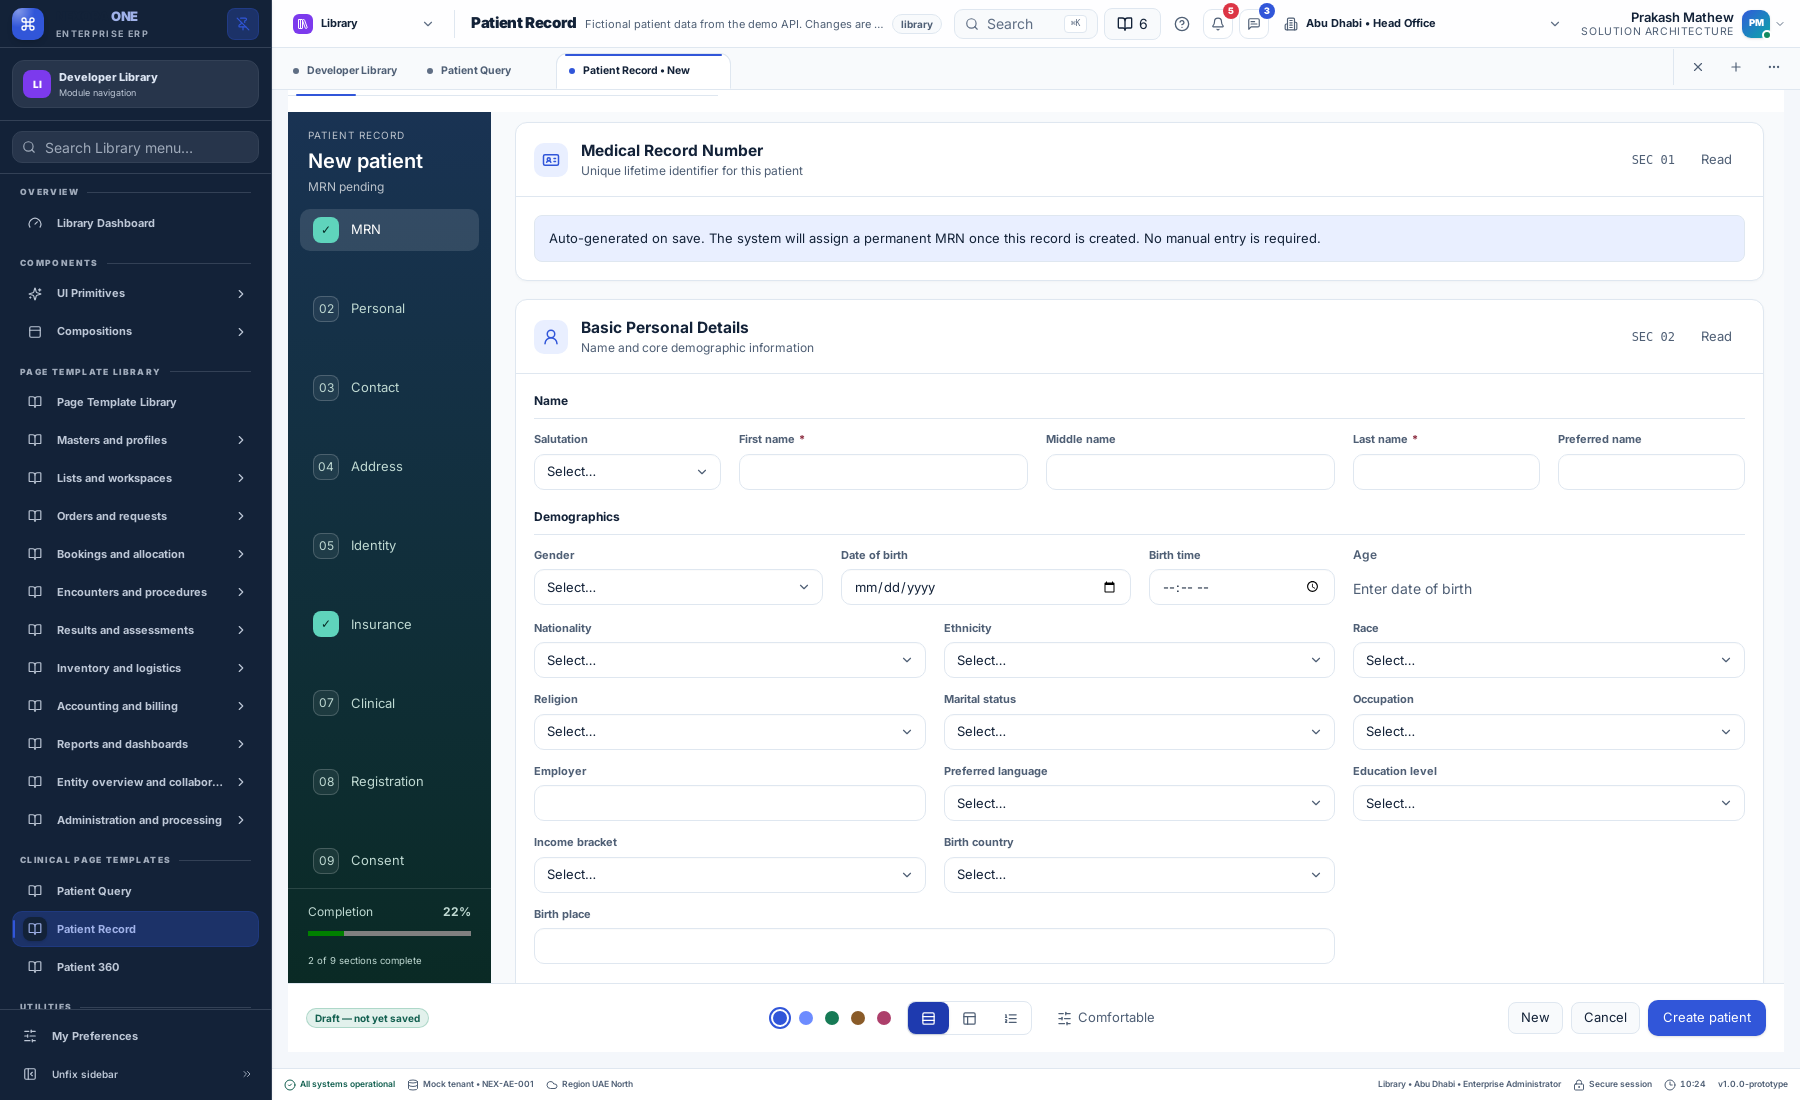
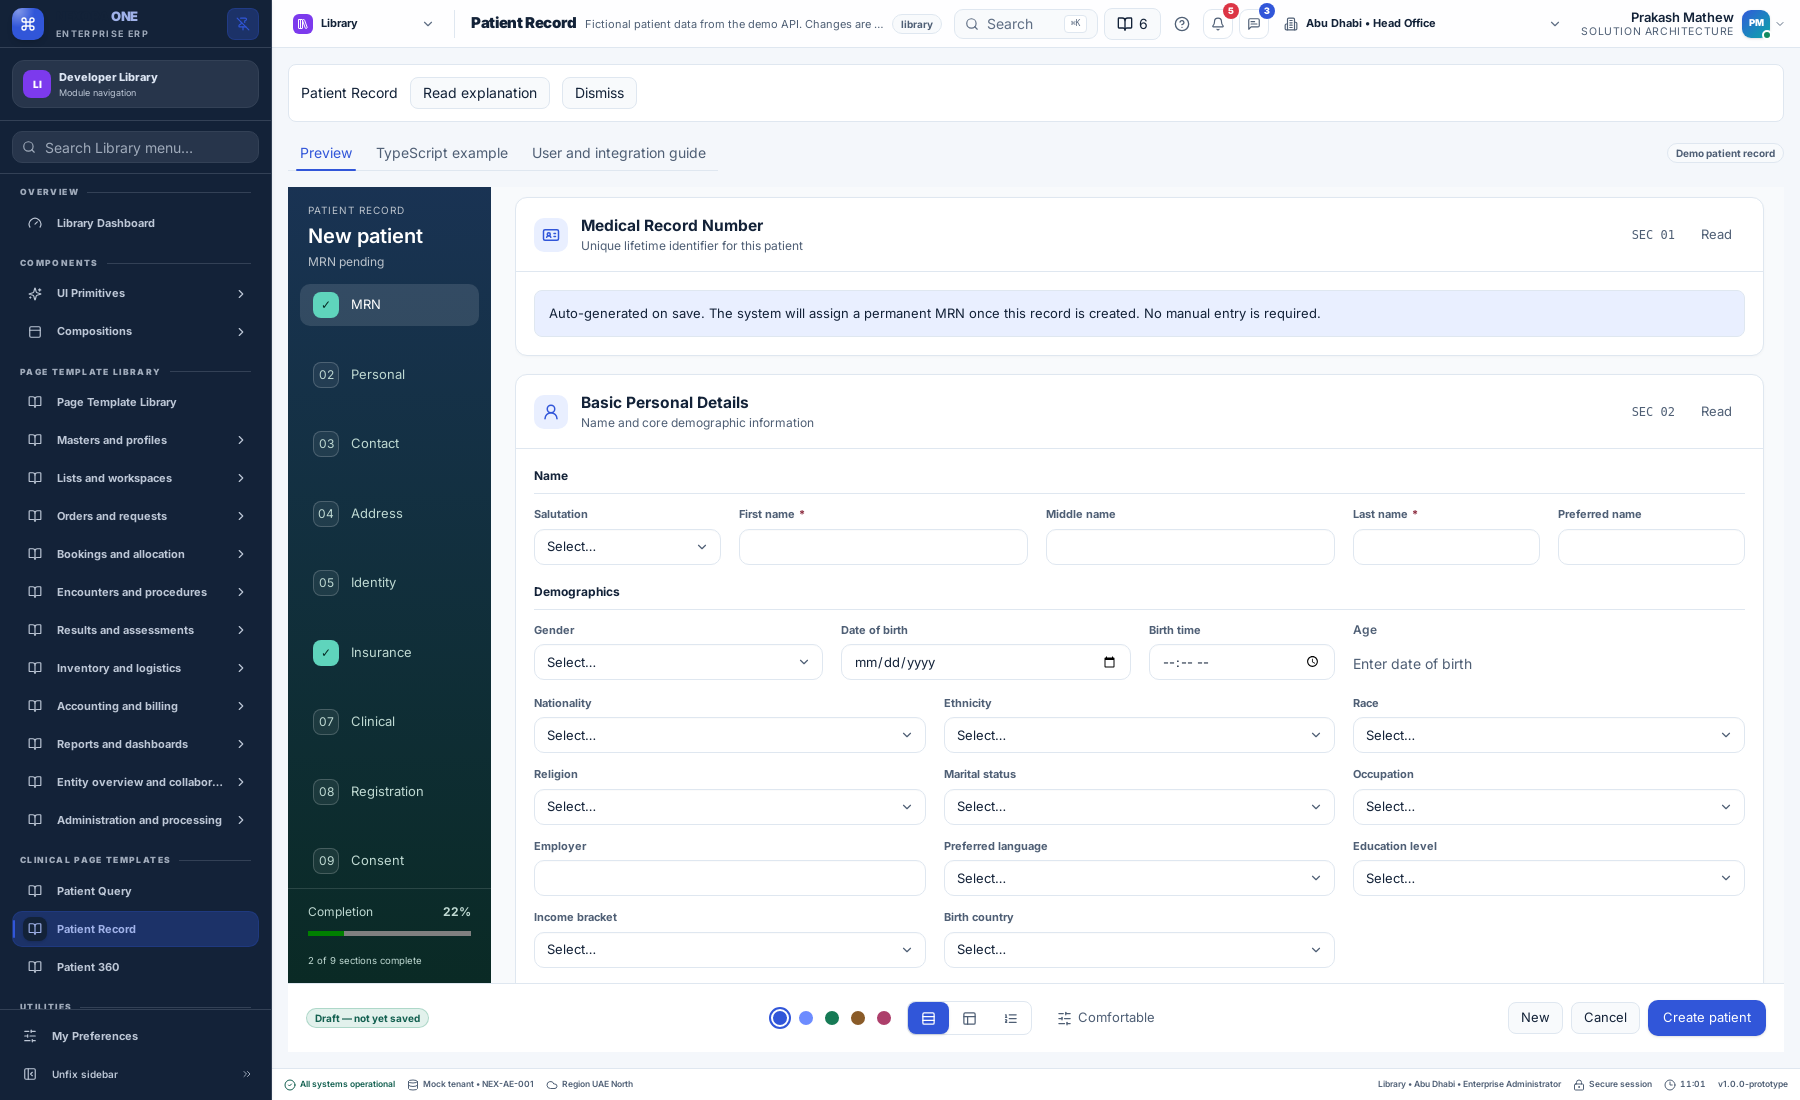
Document patient record deployment and live parity checks [skip ci]

diff --git a/desktop-clients/docs/patient-record-parity.md b/desktop-clients/docs/patient-record-parity.md
@@ -21,7 +21,7 @@ templates → Patient Record** on the desktop shell.
 | Contact sections | Separate email and telephone collections, compound country-code/phone controls and communication preferences |
 | Conditional details | Insurance policies, disability details, deceased fields, refusal and revocation details follow their controlling values |
 | MRN and registration | New records show automatic-generation guidance; saved identifiers and registration status display read-only |
-| Persistent footer | New/Cancel, mode-specific care actions, save, theme, layout and density controls remain accessible while the form scrolls |
+| Persistent footer | New/Cancel, mode-specific care actions, save, theme, layout and density controls remain accessible while the form scrolls, including when page notices appear above it |
 | Repeated details | Numbered row cards, primary toggles, conditional fields and gated Add buttons |
 | Document staging | Shared FilePicker stages file name, MIME type and byte count; the demo API saves metadata, as the reference source does |
 | Save/review | Review before saving, required fields and server errors, retained edits, retry identity and version conflict handling |
@@ -94,5 +94,25 @@ retry, care overview, booking, export and four-language/RTL behavior.
 Local full CI passed: 1,469 tests across 98 files, 61 existing API tests, seven
 clinical API tests, both builds and all project checks. The final browser run also
 passed after the footer/wizard refinements, including record accessibility, keyboard
-navigation and translated record fields. Remote CI and live evidence will be added
-after release validation.
+navigation and translated record fields. The final contact refinement also passed nine targeted tests, clinical API tests,
+package typechecks, production builds, project checks and the clinical browser suite.
+
+
+## Released and verified
+
+- Runtime commit: `2b3095f9bd4eba9709927bf6bf24185717a93276`.
+- [Final CI run](https://github.com/IAMPrakashJM/enterprise-fronend/actions/runs/34342533619):
+  all six jobs passed, including 1,470 tests in 98 files, API checks, browser workflows,
+  product integration, navigation and native Linux lifecycle/localization.
+- Release: `20260909105221034-acc45bbc`, activated on both public demos on 9 September 2026.
+- Live browser checks passed on `front-design.pepbits.com` and
+  `desktop.front-design.pepbits.com`: API-backed metadata/new record, 203 px rail,
+  nine sections, completion meter, source field groups, footer, tabs and wizard.
+  The footer remained inside the viewport with the documentation alert displayed.
+  No runtime errors or patient create/update/export requests occurred in these live checks.
+- A regression test inserts an extra page notice and verifies footer visibility.
+  The clinical browser suite also passed locally after that adjustment.
+- Previous frontend releases and the API/data backup are retained for rollback.
+
+The screenshot above is from the deployed web page. The authenticated-reference
+comparison and native-speaker review limits described above still apply.
